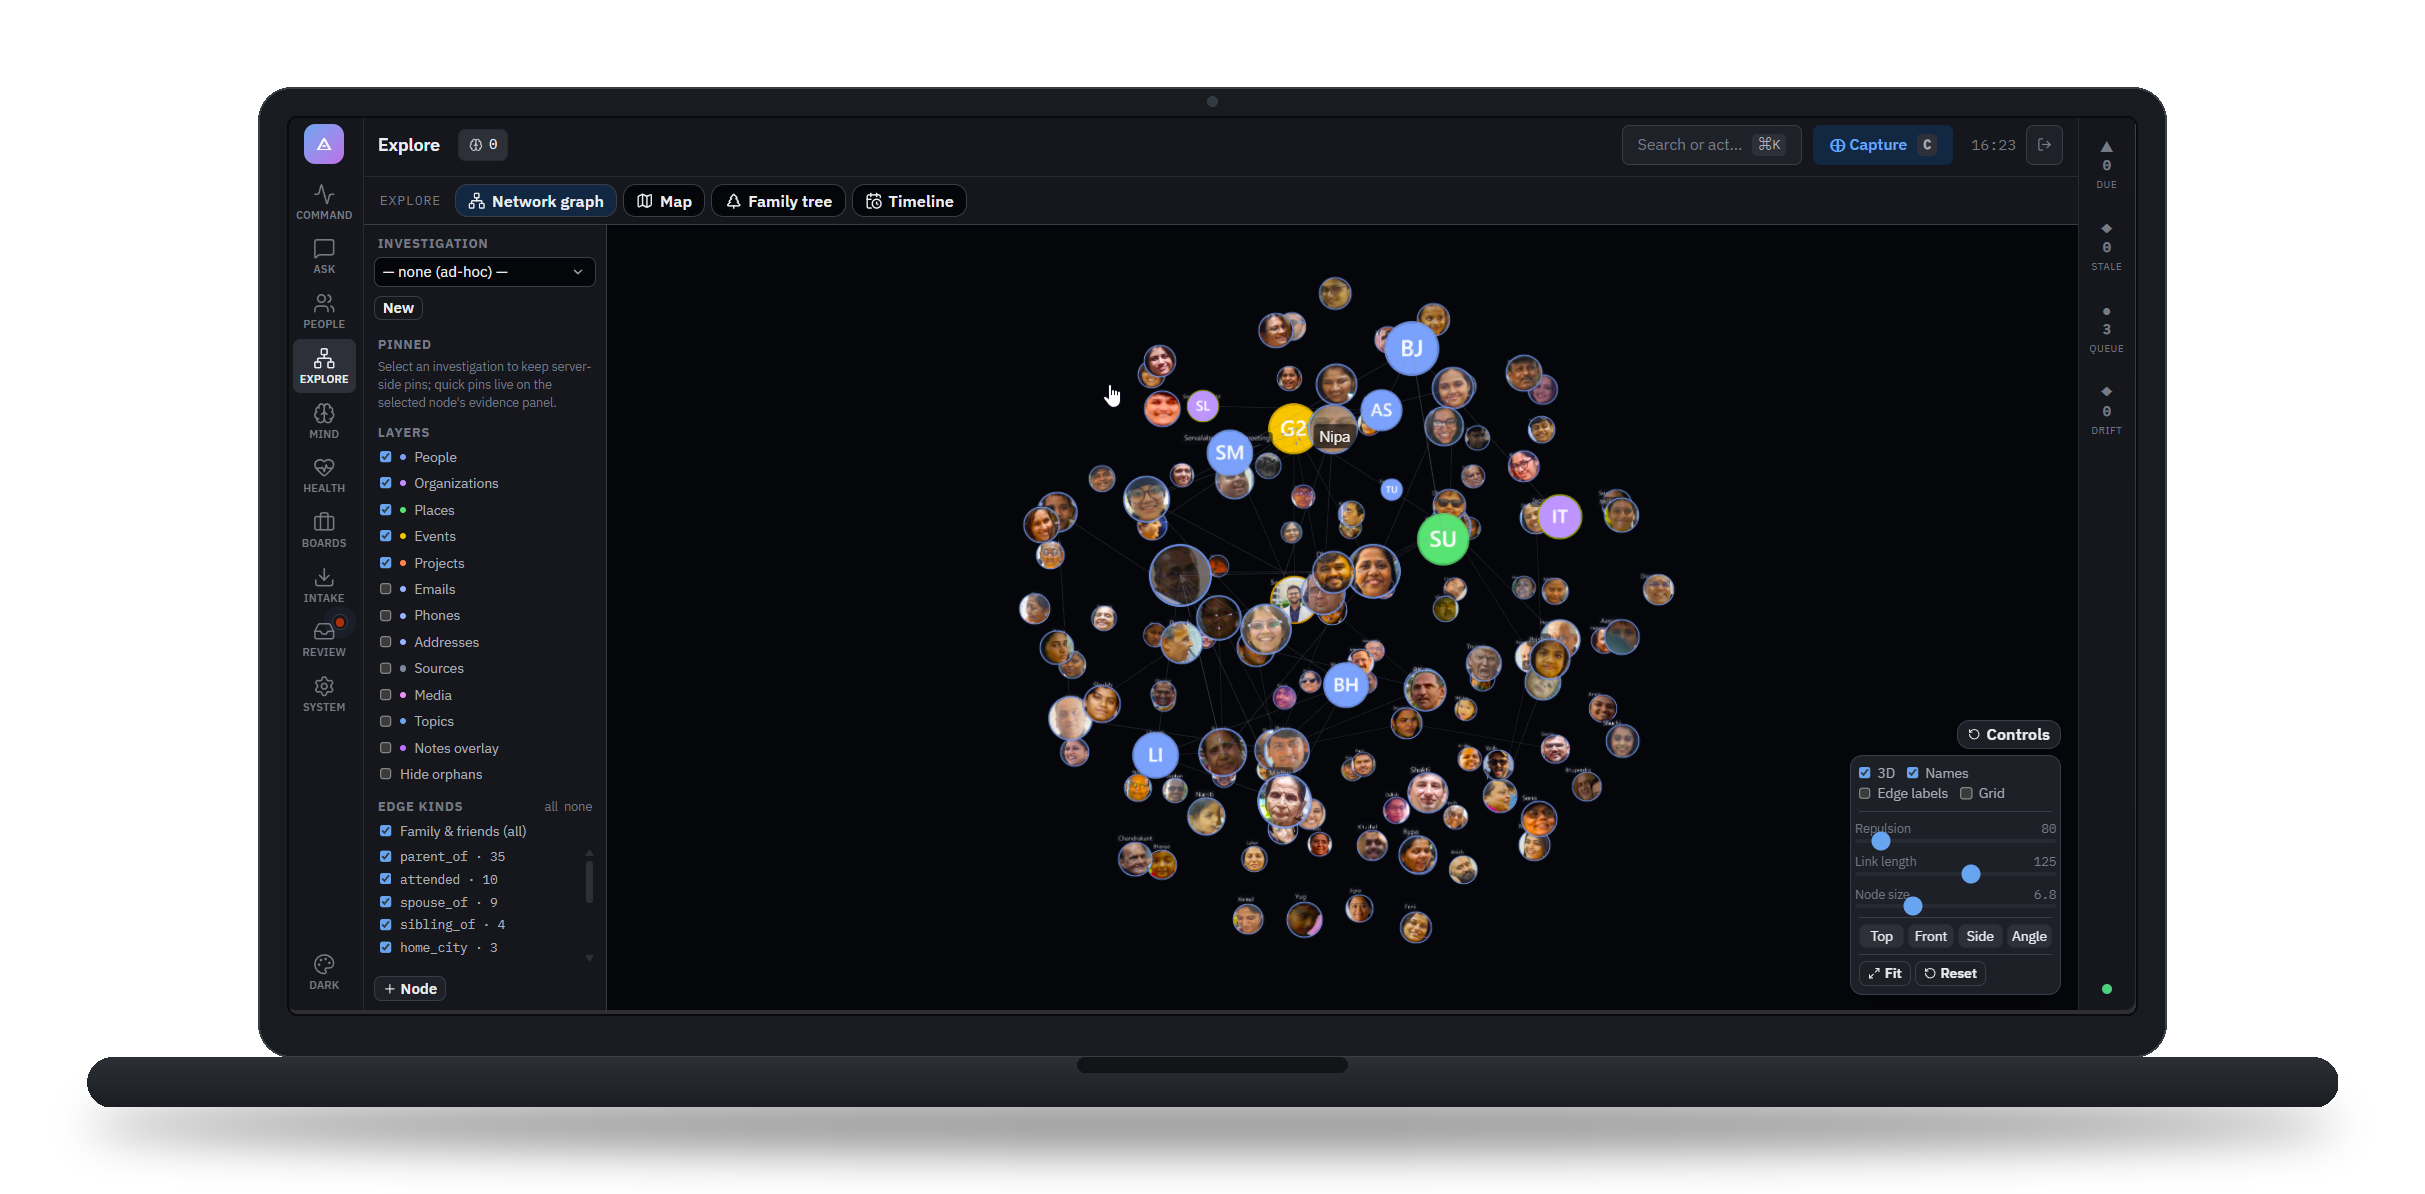
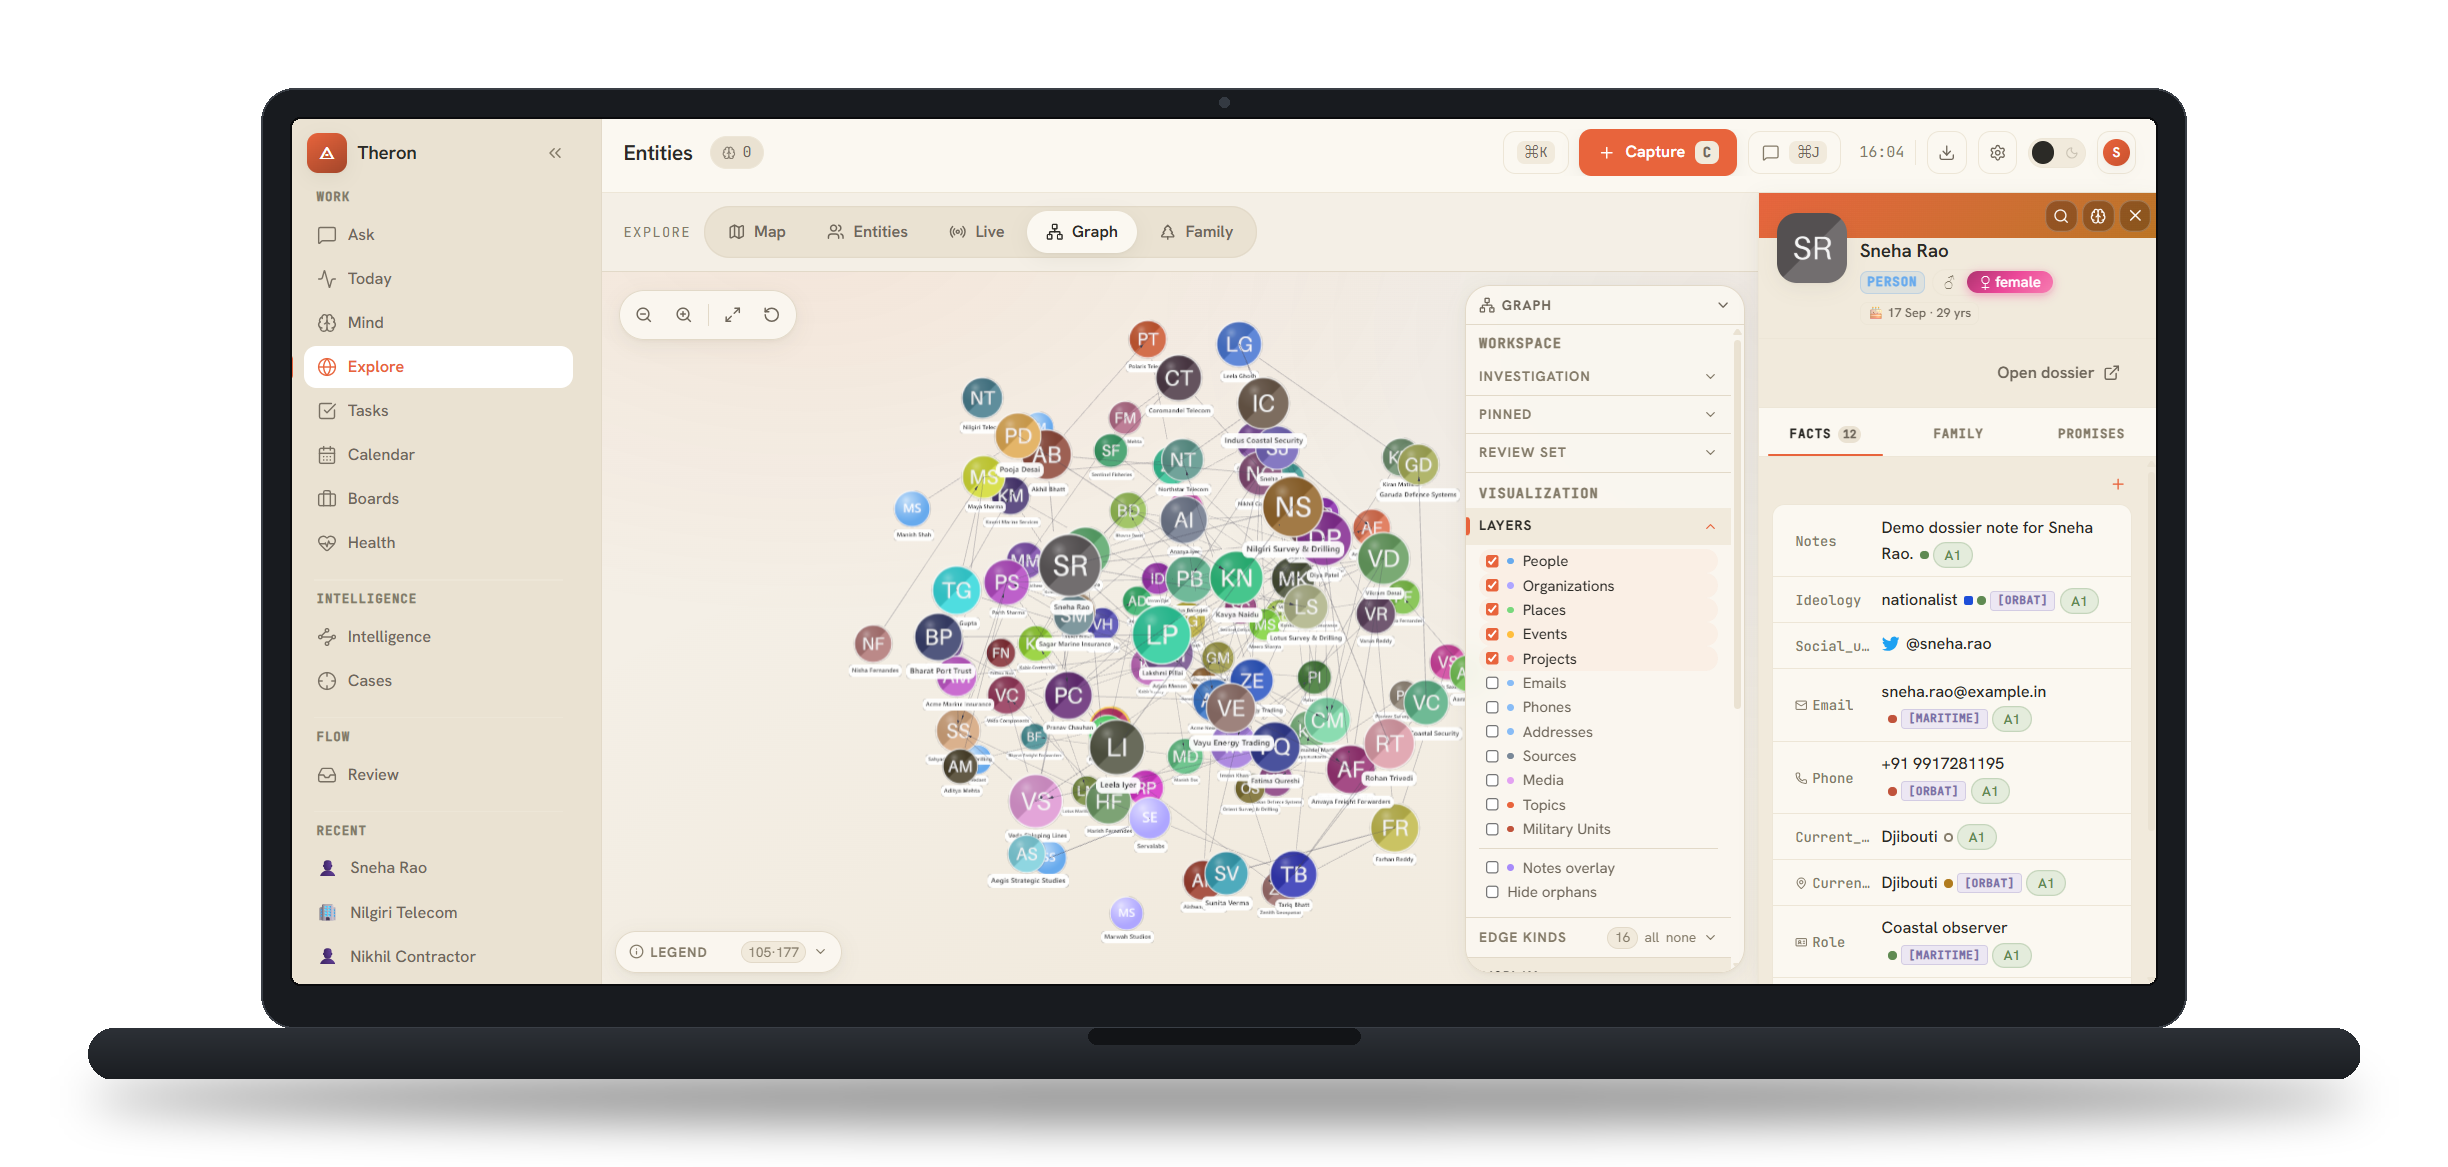
1

diff --git a/products/gen-laptop-mockup.py b/products/gen-laptop-mockup.py
@@ -13,7 +13,7 @@ from PIL import Image, ImageDraw, ImageFilter
 
 JOBS = [
     ("wincommander/wc-dashboard.png", "wincommander/wc-dashboard-laptop.png"),
-    ("theron/theron-entity-graph.png", "theron/theron-entity-graph-laptop.png"),
+    ("theron/Theron_Dashboard.png", "theron/theron-entity-graph-laptop.png"),
 ]
 
 # Frame geometry (px, relative to a 1920-wide screenshot; scaled otherwise)
